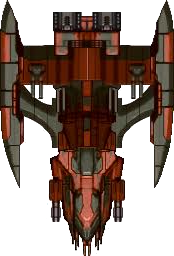
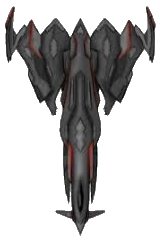
boss image and her display system updated

diff --git a/spawn-controller/grid/grid-invaders-class.js b/spawn-controller/grid/grid-invaders-class.js
@@ -14,18 +14,21 @@ export class Grid{
             y: 0
         }
         this.invaders = []; 
-        this.colums = Math.round(1 + gameVariables.level / 4);
-        this.rows = Math.round(1 + gameVariables.level / 10);
-        this.scale = 35;
-        this.width = this.colums * this.scale;
-        this.height = this.rows * this.scale;
-        
+        const alienMinimumNumberInGrid = 1;
+        const relativeValueForIncreaseAlienInColums = 4;
+        const relativeValueForIncreaseAlienInRows = 10;
+
+        this.colums = Math.round(alienMinimumNumberInGrid + gameVariables.level / relativeValueForIncreaseAlienInColums);
+        this.rows = Math.round(alienMinimumNumberInGrid + gameVariables.level / relativeValueForIncreaseAlienInRows);
+        this.scale = 35;        
         this.draw();
-        this.boss();
     }
 
     draw() {
-        if (gameVariables.level <= 1) {    
+        if (gameVariables.level <= 49) { 
+            this.width = this.colums * this.scale;
+            this.height = this.rows * this.scale;
+
             for (let x = 0; x < this.colums; x++) {
                 for(let y = 0; y < this.rows; y++) {
                     this.invaders.push(new Alien({
@@ -36,12 +39,13 @@ export class Grid{
                     }))
                 }
             }
-        }    
-    }
+        } else  if (gameVariables.level === 50) {
+            const bossWidth = 70;
+            const bossHeight = 100;
 
-    boss() {    
-        
-        if (gameVariables.level === 50) {
+            this.width = bossWidth;
+            this.height = bossHeight;
+            
             for (let x = 0; x < 1; x++) {
                 for (let y = 0; y < 1; y++) {
                     this.invaders.push(new Boss({
@@ -52,18 +56,24 @@ export class Grid{
                     }))
                 }
             }
-        }
+        }    
     }
     
     update() {
         this.position.x += this.velocity.x;
         this.position.y += this.velocity.y; 
         this.velocity.y = 0;
-        
-        if (this.position.x + this.width  >= canvasParam.canvas.width || this.position.x === 0){
-            this.velocity.x = - this.velocity.x;
-            this.velocity.y = 34;
-        }
+        this.movements()
+    }
+    
+    movements() {
+      if (
+          (this.position.x + this.width  >= canvasParam.canvas.width) || 
+          (this.position.x === 0)
+          ) {
+          this.velocity.x = - this.velocity.x;
+          this.velocity.y = 34;
+      }
     }
 
     drawDebugCollisionSquare() {

diff --git a/spawn-controller/boss/boss-class.js b/spawn-controller/boss/boss-class.js
@@ -43,16 +43,34 @@ export class Boss{
     
     shoot() {
         if(this.position && !gameVariables.isGameOver) {
-            gameVariables.alienMissiles.push(new AlienMissile({
-                position:{
-                    x: this.position.x + this.width / 2,
-                    y: this.position.y + this.height
-                },
-                velocity: {
-                    x: 0,
-                    y: 3
-                }
-            }))
+            gameVariables.alienMissiles.push(
+                new AlienMissile({
+                    position:{
+                        x : this.position.x + this.width / 2 - 10,
+                        y : this.position.y + this.height - 7
+                    },
+                    velocity: {
+                        x : 0,
+                        y : 20
+                    },
+                    width : 3,
+                    height : 15,
+                    color : "yellow"
+                }),
+                new AlienMissile({
+                    position:{
+                        x : this.position.x + this.width / 2 + 10,
+                        y : this.position.y + this.height - 7
+                    },
+                    velocity: {
+                        x : 0,
+                        y : 20
+                    },
+                    width : 3,
+                    height : 15,
+                    color : "yellow"
+                })
+            )
         }
     }
 

diff --git a/index.html b/index.html
@@ -16,8 +16,10 @@
         <p class="title-menu">Sky Color</p>
         <select class="child-menu" id="child-color-canvas-menu">
           <option value="any">Select</option>
-          <option value="#29B6F6">Sky Blue</option>
-          <option value="#000020">Night Blue</option>
+          <option value="#031700">Night Green</option>
+          <option value="#000017">Night Blue</option>
+          <option value="#272727">Sky Smoke</option>
+          <option value="#340500">Sky Hell</option>
           <option value="black">Black</option>
         </select>
       </div>    
@@ -26,9 +28,6 @@
         <p class="title-menu">Player Spaceship</p>
         <select class="child-menu" id="child-player-menu">
           <option value="any">Select</option> 
-          <!-- <option value="red">Red</option>
-          <option value="blue">Blue</option> -->
-          <!-- <option value="yellow">Yellow</option> -->
           <option value="white">White</option>
           <option value="interceptor-alpha">Interceptor Alpha</option>
           <option value="aurora-titan">Aurora Titan</option>

diff --git a/spawn-controller/grid/spawn-grid.js b/spawn-controller/grid/spawn-grid.js
@@ -1,5 +1,5 @@
 import { gameVariables } from "../../gameVariables.js";
-import { GridBoss } from "./grid-boss-class.js";
+// import { GridBoss } from "./grid-boss-class.js";
 import { Grid } from "./grid-invaders-class.js";
 
 
@@ -10,15 +10,15 @@ export const spawnNewGrid = (grid, indexGrid) => {
     }
 };
            
-export const spawnBossGrid = (gridBoss, indexGrid) => {
-    if(gridBoss.invaders.length === 0 && gameVariables.gridsBoss.length === 1) {
+export const spawnBossGrid = (grid, indexGrid) => {
+    if(grid.invaders.length === 0 && gameVariables.grids.length === 1) {
       
       setTimeout(() => {
         gameVariables.isBossLevel = true;
-        gameVariables.gridsBoss.splice(indexGrid, 1);
-        gameVariables.gridsBoss.push(new GridBoss());  
+        gameVariables.grids.splice(indexGrid, 1);
+        gameVariables.grids.push(new Grid());  
         // gridBoss.invaders.drawDebugCollisionSquare();
-        console.log(gameVariables.gridsBoss)
+        console.log("gameVariables.grids", gameVariables.grids, "grid", grid)
       }, 3000);
     }
 };

diff --git a/spawn-controller/player/player-class.js b/spawn-controller/player/player-class.js
@@ -7,7 +7,7 @@ import { Missile } from "../missile/player-missile-class.js";
 export class Player{
     constructor() {
         this.width = 35; 
-        this.height = 35; 
+        this.height = 40; 
         this.position = {
             x: canvasParam.canvas.width / 2, 
             y: canvasParam.canvas.height - this.height
@@ -61,5 +61,22 @@ export class Player{
             this.position.x += this.velocity.x;
             this.draw();
         }
-    };
+    }
+
+    drawDebugCollisionSquare() {
+        const ctx = canvasParam.c;
+        ctx.beginPath();
+        ctx.strokeStyle = 'red';
+        ctx.lineWidth = 1;
+
+        ctx.rect(
+            this.position.x,
+            this.position.y,
+            this.width,
+            this.height
+        );
+
+        ctx.stroke();
+        ctx.closePath();
+    }
 } 

diff --git a/init.js b/init.js
@@ -1,5 +1,5 @@
 import { gameVariables } from "./gameVariables.js";
-import { GridBoss } from "./spawn-controller/grid/grid-boss-class.js";
+// import { GridBoss } from "./spawn-controller/grid/grid-boss-class.js";
 import { Grid } from "./spawn-controller/grid/grid-invaders-class.js";
 import { Player } from "./spawn-controller/player/player-class.js";
 
@@ -22,7 +22,7 @@ export const init = () => {
     gameVariables.isBossDead = false;
     gameVariables.player = new Player(); 
     gameVariables.grids = [new Grid()];
-    gameVariables.gridsBoss = [new GridBoss()];
+    // gameVariables.gridsBoss = [new GridBoss()];
     gameVariables.containerStart.style.display = "none";
     gameVariables.customMenu.style.display = 'none';
     gameVariables.hud.style.display = "flex";

diff --git a/spawn-controller/missile/player-missile-collide.js b/spawn-controller/missile/player-missile-collide.js
@@ -8,7 +8,6 @@ import { spawnParticles } from "../particle/particle-spawn.js";
 
 export const playerMissileCollideInvaders = (
     grid, 
-    gridBoss,
     invader, 
     indexGrid, 
     indexI
@@ -35,10 +34,10 @@ export const playerMissileCollideInvaders = (
              
              
              setTimeout(() => {
-                    if (gameVariables.level <= 1) {
+                    if (gameVariables.level <= 49) {
                         spawnNewGrid(grid, indexGrid);
                     } else {
-                        spawnBossGrid(gridBoss, indexGrid);
+                        spawnBossGrid(grid, indexGrid);
                     }
           },0)
       }

diff --git a/spawn-controller/missile/alien-missile-class.js b/spawn-controller/missile/alien-missile-class.js
@@ -3,17 +3,18 @@ import { gameVariables } from "../../gameVariables.js";
 
 
 export class AlienMissile{
-    constructor({position,velocity}){
+    constructor({position, velocity, width, height, color}){
         this.position = position;
         this.velocity = velocity;
-        this.width = 3;
-        this.height = 15;
+        this.width = width;
+        this.height = height;
+        this.color = color
     }
 
     draw(){
       canvasParam.c.beginPath();
       canvasParam.c.save();
-      canvasParam.c.fillStyle = 'orange';
+      canvasParam.c.fillStyle = this.color;
       
       canvasParam.c.fillRect(
         this.position.x,

diff --git a/app.js b/app.js
@@ -36,7 +36,7 @@ import { checkIfPlayerWin } from "./victory.js";
             updateInvaderNumber(grid);
             alienMissileFireRate(grid);
             grid.update();
-            grid.drawDebugCollisionSquare();
+            // grid.drawDebugCollisionSquare();
 
             grid.invaders.forEach((invader, indexI) => {
                 invader.update({
@@ -57,6 +57,7 @@ import { checkIfPlayerWin } from "./victory.js";
         }
         
         gameVariables.player.update();
+        gameVariables.player.drawDebugCollisionSquare();
         gameVariables.frames++;
     };
     

diff --git a/game-over.js b/game-over.js
@@ -19,7 +19,7 @@ export const drawTextGameOver = () => {
 
 export const checkIfGameOver = (invader) => {
     const invadersOffScreenOnBelow = invader.position.y + invader.height >= canvasParam.canvas.height;
-    const playerLifeEqualToZero = gameVariables.lifes === 0;
+    const playerLifeEqualToZero = gameVariables.lifes <= 0;
 
   if (invadersOffScreenOnBelow || playerLifeEqualToZero) {
     return (

diff --git a/canvasParam.js b/canvasParam.js
@@ -3,11 +3,10 @@ export const canvasParam = {
    c : canvas.getContext('2d')
 };
   
-canvasParam.canvas.width = 800;
-canvasParam.canvas.height = 600;
-
-// console.log(canvasParam.c);
-
 export function selectedCanvasColor(selectedColor) {
   canvasParam.c.fillStyle = selectedColor;
 };
+
+
+canvasParam.canvas.width = 800;
+canvasParam.canvas.height = 600;

diff --git a/spawn-controller/alien/alien-class.js b/spawn-controller/alien/alien-class.js
@@ -48,7 +48,10 @@ export class Alien{
                 velocity: {
                     x: 0,
                     y: 3
-                }
+                },
+                width : 3,
+                height : 15,
+                color : "orange"
             }))
         }
     }
